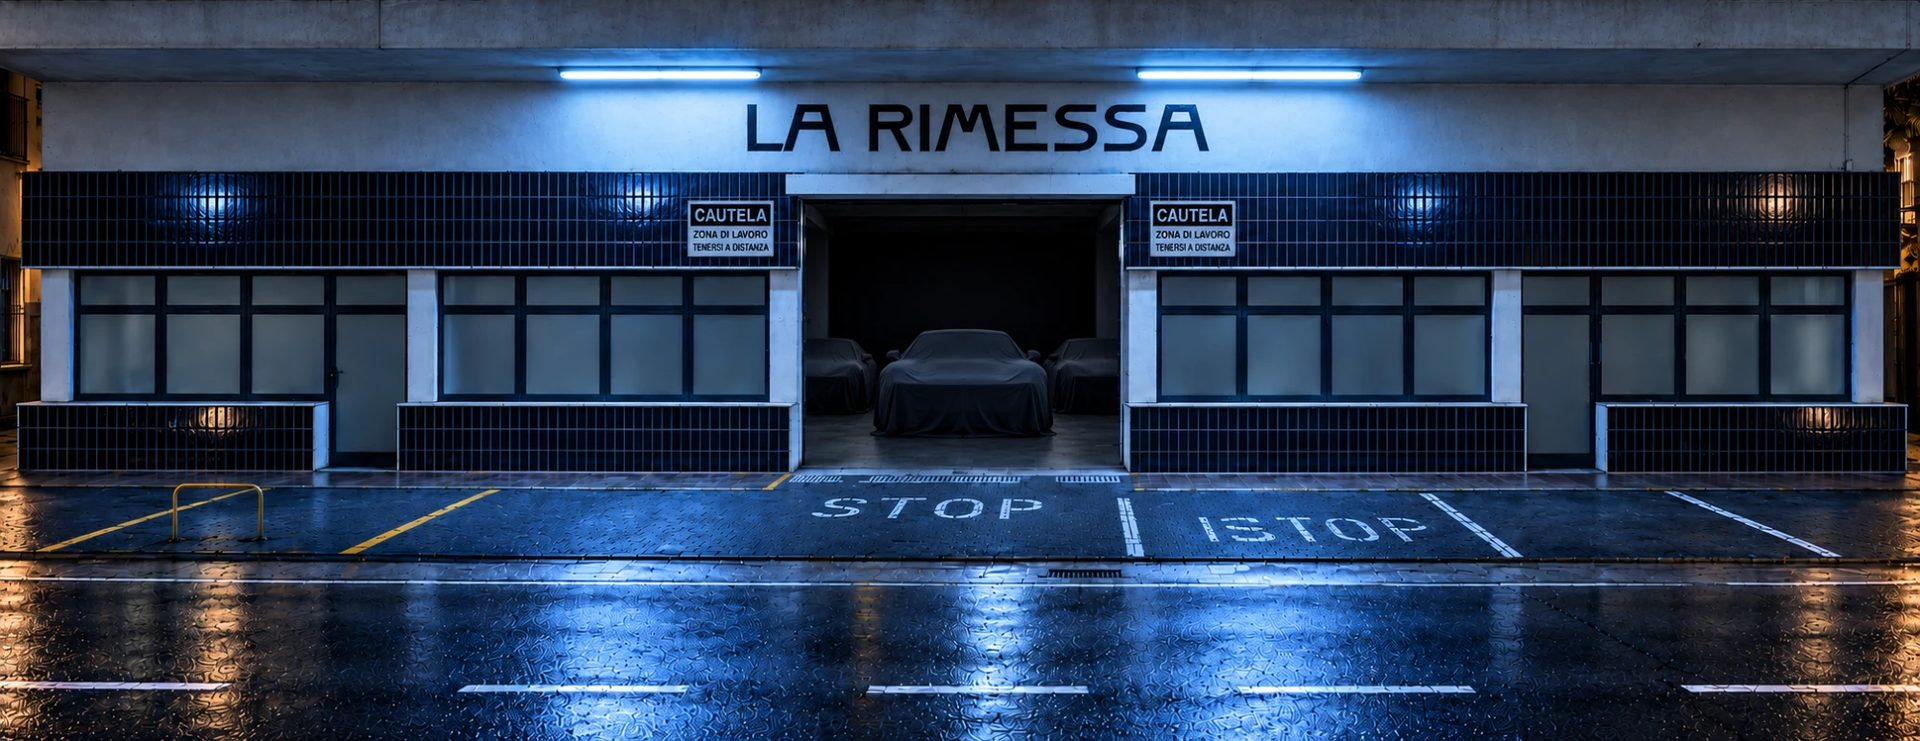
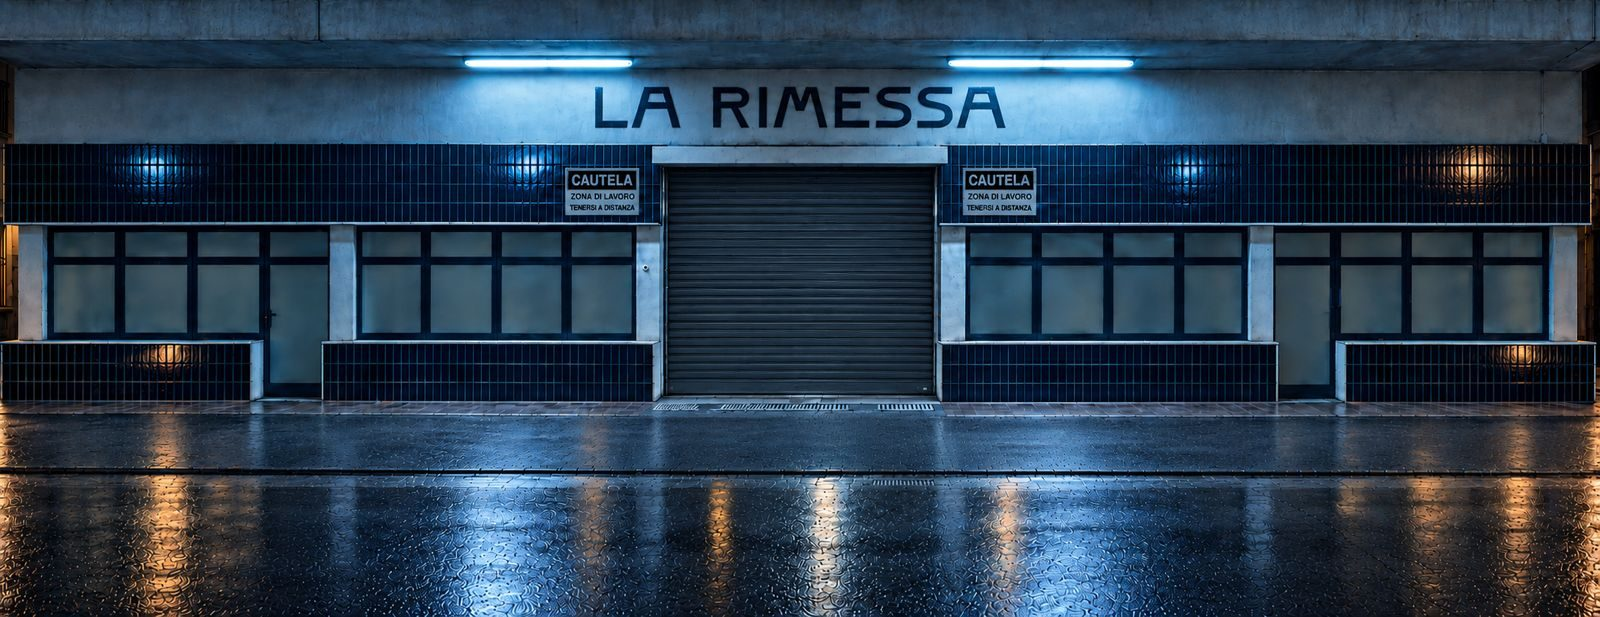
New hero image (facade at night, shutter closed)
Optimized 1600x617; update og:image dimensions and alt text.

diff --git a/index.html b/index.html
@@ -20,8 +20,8 @@
 <meta property="og:description" content="A private members' club for remarkable automobiles, in Meina on Lake Maggiore. Opening soon. Founding memberships by request.">
 <meta property="og:url" content="https://luuu-ca.github.io/larimessa-site/">
 <meta property="og:image" content="https://luuu-ca.github.io/larimessa-site/la-rimessa-meina-lago-maggiore.jpg">
-<meta property="og:image:width" content="1920">
-<meta property="og:image:height" content="741">
+<meta property="og:image:width" content="1600">
+<meta property="og:image:height" content="617">
 <meta property="og:image:alt" content="La Rimessa in Meina at dusk, on Lake Maggiore">
 <meta property="og:locale" content="en_US">
 <meta name="twitter:card" content="summary_large_image">
@@ -223,7 +223,7 @@
       </div>
       <div class="hero-media-wrap">
         <div class="hero-media" id="heroMedia">
-          <img src="la-rimessa-meina-lago-maggiore.jpg" width="1920" height="741" fetchpriority="high" decoding="async" alt="La Rimessa in Meina at night, a covered car in the lit bay. Private car storage on Lake Maggiore.">
+          <img src="la-rimessa-meina-lago-maggiore.jpg" width="1600" height="617" fetchpriority="high" decoding="async" alt="La Rimessa in Meina at night, the illuminated facade with the shutter closed. Private car storage on Lake Maggiore.">
           <div class="hero-scrim"></div>
         </div>
       </div>
